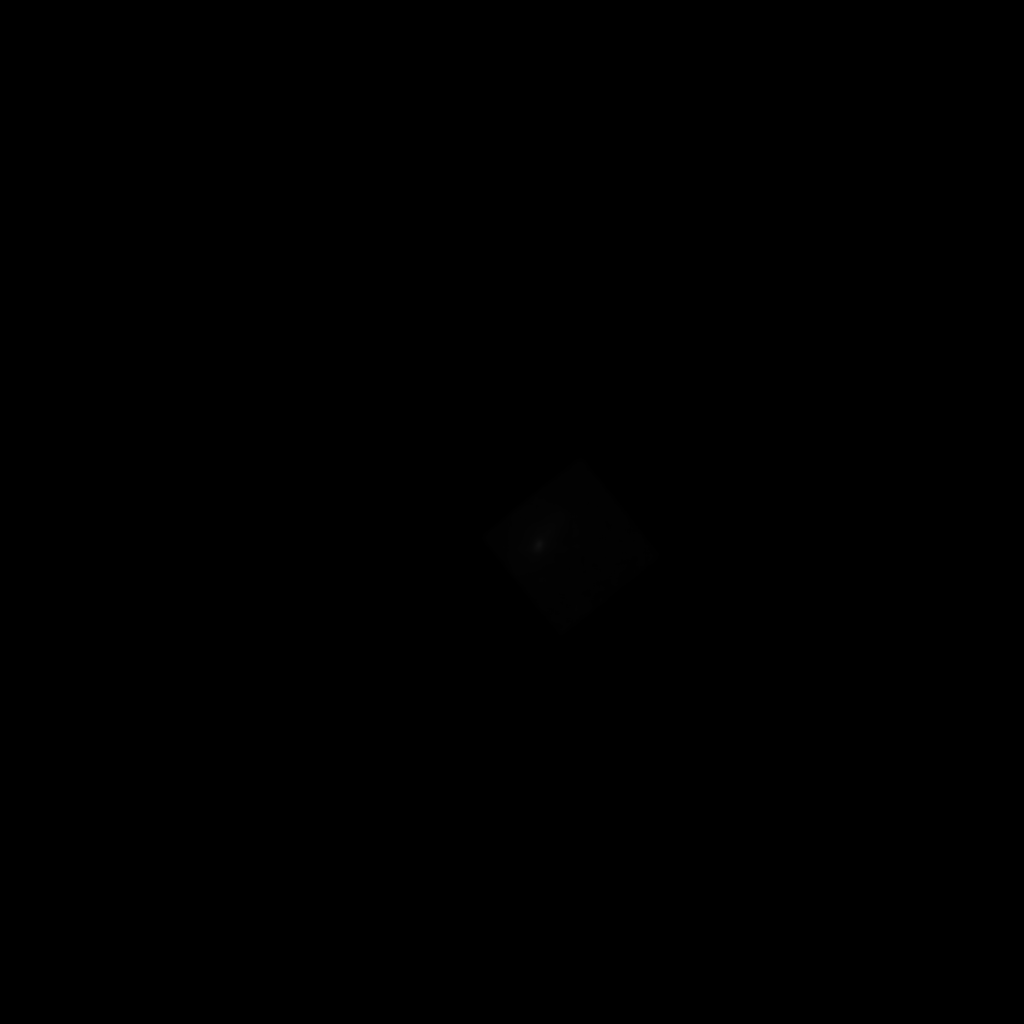
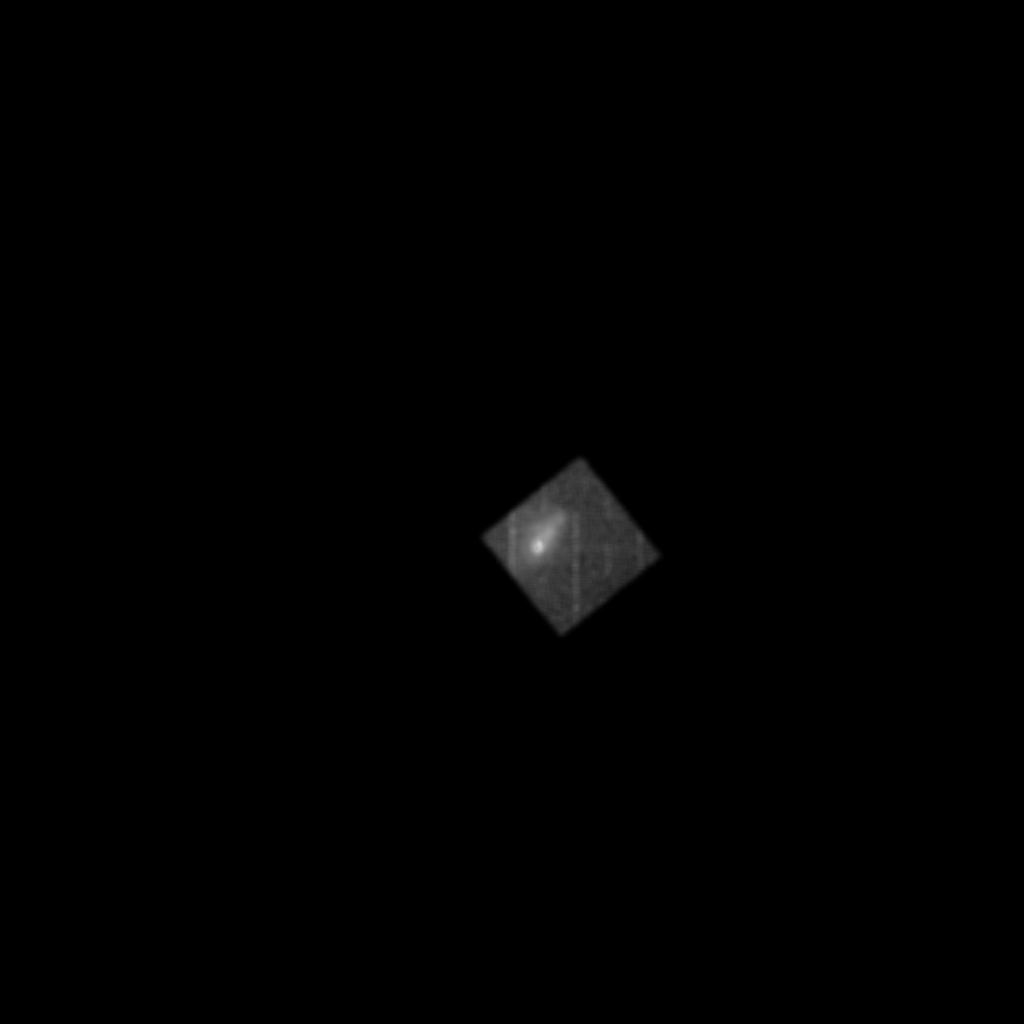
finally good results

Changed region(s): [[0.4688, 0.4375, 0.6562, 0.625]]

diff --git a/image_adapt_gpu_global.py b/image_adapt_gpu_global.py
@@ -6,8 +6,6 @@ import pycuda.autoinit
 import pycuda.driver as cu
 import pycuda.compiler as nvcc
 from pycuda import gpuarray
-from pycuda.reduction import ReductionKernel
-from pycuda.elementwise import ElementwiseKernel
 import time
 
 """
@@ -25,8 +23,8 @@ DEBUG = 1
 file_name   = 'extrap_data/11759_ccd3/11759_32x32.png'
 
 # Parameter
-Threshold   = np.int32(1)
-MaxRad      = np.int32(10)
+Threshold   = np.int32(15)
+MaxRad      = np.int32(4)
 
 # Setup input file
 IMG_rgb = imread(file_name)
@@ -35,6 +33,9 @@ IMG = array( IMG_rgb[:,:,0] )
 # Get image data
 Lx = np.int32( IMG.shape[0] )
 Ly = np.int32( IMG.shape[1] )
+
+total_start_time = time.time()
+setup_start_time = time.time()
 
 # Allocate memory
 # Max box smoothing stencil
@@ -117,7 +118,7 @@ kernel_smooth_source = \
                 {
                     if (ksum != 0)
                     {
-                        NORM[gtid + ii*Ly + jj] +=  1.0 / 2;
+                        NORM[gtid + ii*Ly + jj] +=  1.0 / ksum;
                     }
                 }
             }
@@ -154,7 +155,7 @@ kernel_norm_source = \
     // Compute all pixels except for image border
 	if ( i >= 0 && i < Ly && j >= 0 && j < Lx )
 	{
-        if (NORM != 0)
+        if (NORM[gtid] != 0)
         {
             // Access from global memory
             IMG[gtid] /= NORM[gtid];
@@ -218,8 +219,7 @@ smoothing_kernel = nvcc.SourceModule(kernel_smooth_source).get_function("smoothi
 normalize_kernel = nvcc.SourceModule(kernel_norm_source).get_function("normalizeFilter")
 out_kernel = nvcc.SourceModule(kernel_out_source).get_function("outFilter")
 
-total_start_time = time.time()
-setup_start_time = time.time()
+
 
 # Allocate memory and constants
 smem_size   = int(TPBx*TPBy*4)
@@ -278,7 +278,7 @@ IMG_out = OUT_device.get()
 if(DEBUG):
     BOX_out = BOX_device.get()
     NORM_out = NORM_device.get()
-    f = open('debug_gpu.txt', 'w')
+    f = open('debug_gpu_g.txt', 'w')
     set_printoptions(threshold='nan')
     print >>f,'IMG'
     print >>f, str(IMG).replace('[',' ').replace(']', ' ')
@@ -291,12 +291,12 @@ if(DEBUG):
     f.close()
 
 # Print results & save
-imsave('{}_smoothed_gpu.png'.format(file_name), IMG_out, cmap=cm.gray, vmin=0, vmax=1)
-total_time      = (total_stop_time - total_start_time)
+imsave('{}_smoothed_gpu_g.png'.format(os.path.splitext(file_name)[0]), IMG_out, cmap=cm.gray, vmin=0, vmax=1)
 setup_time      = (setup_stop_time - setup_start_time)
 smth_ker_time   = (smth_kernel_start_time.time_till(smth_kernel_stop_time) * 1e-3)
 norm_ker_time   = (norm_kernel_start_time.time_till(norm_kernel_stop_time) * 1e-3)
 out_ker_time    = (out_kernel_start_time.time_till(out_kernel_stop_time) * 1e-3)
+total_time      = setup_time + smth_ker_time + norm_ker_time + out_ker_time
 
 print "Total Time: %f"                  % total_time
 print "Setup Time: %f"                  % setup_time

diff --git a/image_adapt_gpu.py b/image_adapt_gpu.py
@@ -20,8 +20,8 @@ except:
 """
 
 file_name   = 'extrap_data/11759_ccd3/11759_32x32.png'
-Threshold   = np.int32(1)
-MaxRad      = np.int32(10)
+Threshold   = np.int32(15)
+MaxRad      = np.int32(4)
 
 
 # setup input file
@@ -31,6 +31,9 @@ IMG = array( IMG_rgb[:,:,0] )
 # Get image data
 Lx = np.int32( IMG.shape[0] )
 Ly = np.int32( IMG.shape[1] )
+
+total_start_time = time.time()
+setup_start_time = time.time()
 
 # Allocate memory
 # size of the box needed to reach the threshold value or maxrad value
@@ -160,7 +163,7 @@ kernel_norm_source = \
         // Compute within bounds of block dimensions
         if( tid > 0 && tid < blockDim.x-1 && tjd > 0 && tjd < blockDim.y-1 )
         {
-            if (NORM[gtid] != 0)
+            if (s_NORM[stid] != 0)
             {
                 IMG[gtid] /= s_NORM[stid];
             }
@@ -241,8 +244,7 @@ smoothing_kernel = nvcc.SourceModule(kernel_smooth_source).get_function("smoothi
 normalize_kernel = nvcc.SourceModule(kernel_norm_source).get_function("normalizeFilter")
 out_kernel = nvcc.SourceModule(kernel_out_source).get_function("outFilter")
 
-total_start_time = time.time()
-setup_start_time = time.time()
+
 
 # Allocate memory and constants
 smem_size   = int(TPBx*TPBy*4)
@@ -309,9 +311,9 @@ NORM_out = NORM_device.get()
 
 
 total_stop_time = time.time()
-imsave('{}_smoothed_gpu.png'.format(file_name), IMG_out, cmap=cm.gray, vmin=0, vmax=1)
+imsave('{}_smoothed_gpu_s.png'.format(os.path.splitext(file_name)[0]), IMG_out, cmap=cm.gray, vmin=0, vmax=1)
 # Debug
-f = open('debug_gpu.txt', 'w')
+f = open('debug_gpu_s.txt', 'w')
 set_printoptions(threshold='nan')
 print >>f,'IMG'
 print >>f, str(IMG).replace('[',' ').replace(']', ' ')
@@ -324,11 +326,12 @@ print >>f, str(NORM_out).replace('[',' ').replace(']', ' ')
 f.close()
 
 # Print results & save
-total_time      = (total_stop_time - total_start_time)
+
 setup_time      = (setup_stop_time - setup_start_time)
 smth_ker_time   = (smth_kernel_start_time.time_till(smth_kernel_stop_time) * 1e-3)
 norm_ker_time   = (norm_kernel_start_time.time_till(norm_kernel_stop_time) * 1e-3)
 out_ker_time    = (out_kernel_start_time.time_till(out_kernel_stop_time) * 1e-3)
+total_time      = setup_time + smth_ker_time + norm_ker_time + out_ker_time
 
 print "Total Time: %f"                  % total_time
 print "Setup Time: %f"                  % setup_time

diff --git a/image_adapt_serial_norm.py b/image_adapt_serial_norm.py
@@ -31,7 +31,7 @@ NORM = np.zeros((Lx, Ly), dtype=np.float32)
 OUT = np.zeros((Lx, Ly), dtype=np.float32)
 
 # Set Parameters
-Threshold = np.int32(1)
+Threshold = np.int32(15)
 MaxRad = np.int32(4)
 
 setup_stop_time = time.time()
@@ -54,7 +54,7 @@ for xx in range(Lx):
             #check for boundary condition
             for ii in xrange( int(-ss), int(ss+1) ):
                 for jj in xrange( int(-ss), int(ss+1) ):
-                    if(((xx + ss < Lx) and (xx - ss >= 0)) and ((yy + ss < Ly) and (yy - ss >=0))):                        
+                    if((xx + ss < Lx) and (xx - ss >= 0) and (yy + ss < Ly) and (yy - ss >=0)):                        
                         sum += IMG[xx + ii][yy + jj]
                         ksum += 1.0
             qq += 1
@@ -68,9 +68,9 @@ for xx in range(Lx):
         # divided.
         for ii in xrange( int(-ss), int(ss+1) ):
             for jj in xrange( int(-ss), int(ss+1) ):
-                if(((xx + ss < Lx) and (xx - ss >= 0)) and ((yy + ss < Ly) and (yy - ss >=0))):
+                if((xx + ss < Lx) and (xx - ss >= 0) and (yy + ss < Ly) and (yy - ss >=0)):      
                     if(ksum != 0):
-                        NORM[xx+ii][yy+jj] += 1.0 / 2
+                        NORM[xx+ii][yy+jj] += 1.0 / ksum
 #---------------------------------------------------------------
 
 # Normalize the image
@@ -91,7 +91,7 @@ for xx in range(Lx):
         #resmooth with normalized IMG
         for ii in xrange( int(-ss), int(ss+1) ):
             for jj in xrange( int(-ss), int(ss+1) ):
-                if(((xx + ss < Lx) and (xx - ss >= 0)) and ((yy + ss < Ly) and (yy - ss >=0))):
+                if((xx + ss < Lx) and (xx - ss >= 0) and (yy + ss < Ly) and (yy - ss >=0)):      
                     sum += IMG[xx+ii][yy+jj]
                     ksum += 1.0
         #check for divide by zero
@@ -111,9 +111,9 @@ if(DEBUG):
     f = open('debug_serial.txt', 'w')
     set_printoptions(threshold='nan')
     print >>f,'IMG'
-    #print >>f, str(IMG).replace('[',' ').replace(']', ' ')
+    print >>f, str(IMG).replace('[',' ').replace(']', ' ')
     print >>f,'OUTPUT'
-    #print >>f, str(OUT).replace('[',' ').replace(']', ' ')
+    print >>f, str(OUT).replace('[',' ').replace(']', ' ')
     print >>f,'BOX'
     print >>f, str(BOX).replace('[',' ').replace(']', ' ')
     print >>f,'NORM'

diff --git a/image_adapt_mpi.py b/image_adapt_mpi.py
@@ -10,8 +10,8 @@ import time
 
 def parallel_smooth(file_name, rank, size, comm):
     # Parameter
-    Threshold   = np.int32(15)
-    MaxRad      = np.int32(4)
+    Threshold   = np.int32(10)
+    MaxRad      = np.int32(2)
 
     # Setup input file
     IMG_rgb = imread(file_name)
@@ -105,7 +105,7 @@ def parallel_smooth(file_name, rank, size, comm):
                     {
                         if (ksum != 0)
                         {
-                            NORM[gtid + ii*Ly + jj] +=  1.0 / 2;
+                            NORM[gtid + ii*Ly + jj] +=  1.0 / ksum;
                         }
                     }
                 }
@@ -142,7 +142,7 @@ def parallel_smooth(file_name, rank, size, comm):
         // Compute all pixels except for image border
     	if ( i >= 0 && i < Ly && j >= 0 && j < Lx )
     	{
-            if (NORM != 0)
+            if (NORM[gtid] != 0)
             {
                 // Access from global memory
                 IMG[gtid] /= NORM[gtid];

diff --git a/error_check.py b/error_check.py
@@ -12,12 +12,12 @@ from pylab import *
 
 
 # Read in serial version, make sure precomputed dimension are same
-serial_file   = "extrap_data/11759_ccd3/11759_32x32_smoothed_serial.png"  # Precomputed serial x20 iterations
+serial_file   = "extrap_data/output/serial/11759_ccd3_256x256_smoothed_serial.png"  # Precomputed serial x20 iterations
 serial_im_rgb = imread(serial_file)                 # Must be same dimensions     
 serial_im     = array( serial_im_rgb[:,:,0] )       # Compare with parallel_im
     
 # Read in parallel version for proper benchmark
-parallel_file   = "extrap_data/11759_ccd3/11759_32x32_smoothed_gpu.png"     
+parallel_file   = "extrap_data/output/parallel/11759_ccd3/11759_256x256_smoothed_gpu.png"     
 parallel_im_rgb = imread(parallel_file)                  
 parallel_im     = array( parallel_im_rgb[:,:,0] )   
 
